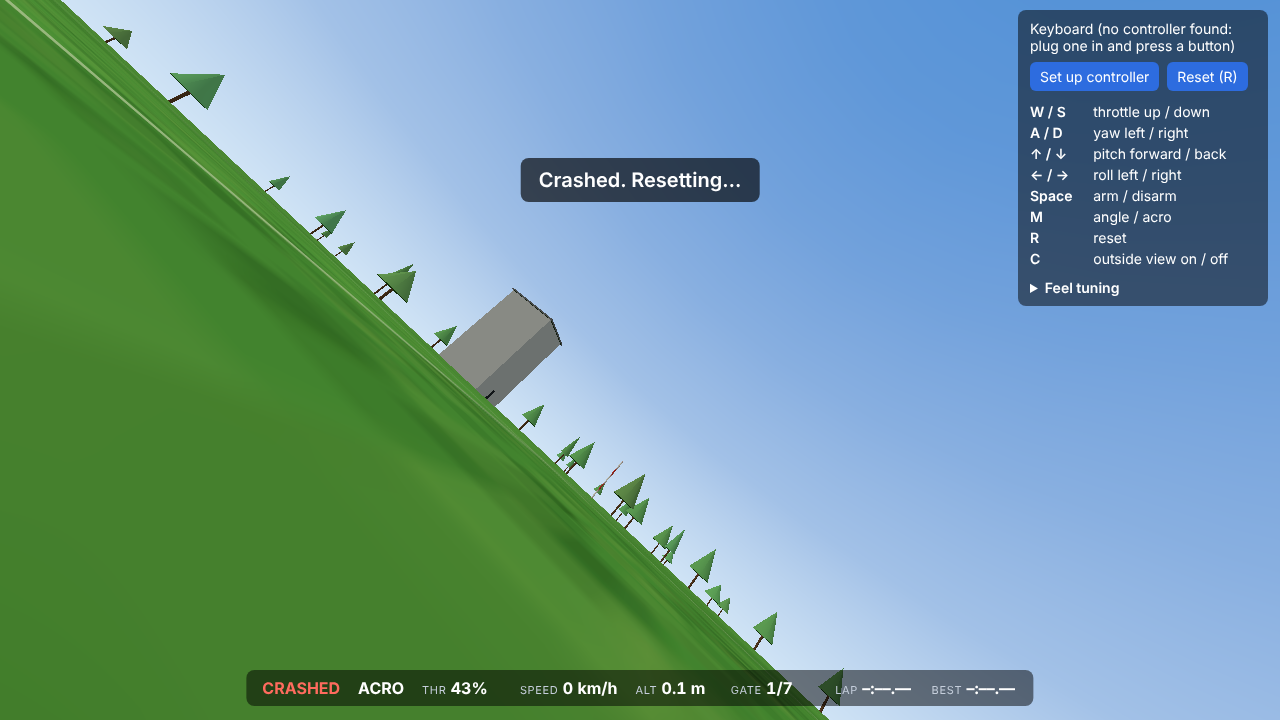
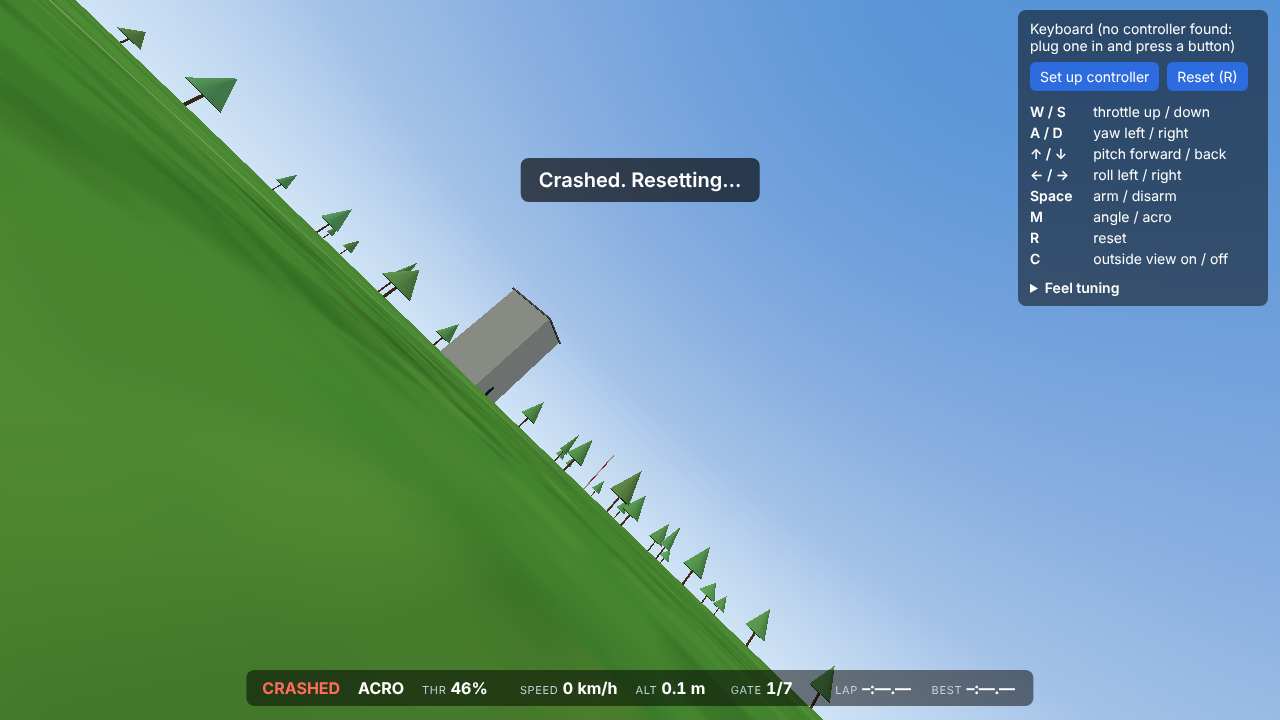
Real-data pass: thrust exponent 1.35 from two 2207 6S tables (hover 15 %), sources added, log replay not possible from the sandbox (documented)

diff --git a/src/params.js b/src/params.js
@@ -14,7 +14,7 @@ export function defaultQuad() {
     yawTorquePerThrust: 0.0122, // m, derived from [7]
     dragLinear: 0.3,            // N per m/s, cited [7]
     dragQuadratic: 0.006,       // N per (m/s)^2, uncited
-    thrustExponent: 1.25,       // static thrust = max * command^1.25, fitted to a 2207 6S bench thrust table (docs/feel.md, note 2)
+    thrustExponent: 1.35,       // static thrust = max * command^1.35: middle of two 2207 6S bench tables, 1.24 and 1.45 (docs/feel.md, note 2)
     pitchSpeed: 65,             // m/s at full throttle, tuned for ~150 km/h level top speed [8]
     crashSpeed: 6,              // m/s impact speed that counts as a crash (assumption)
     groundHeight: 0.05,         // m, height of the centre of mass when sitting on the ground

diff --git a/docs/feel.md b/docs/feel.md
@@ -2,7 +2,7 @@
 
 Mike: "the feel needs to be perfect." This page is the scoreboard. Every sim number below is **measured** by step inputs into the real sim code (`node test/feel.mjs`, and the same measurement inside Chrome in the M5 block of `test/flight.mjs`, plots in `proof/M5/32-m5-feel-step-responses.png`). Re-run after every tuning change and update the tables.
 
-Status on 2026-11-16 (third measurement): rate loop, angle mode and motor lag tuned; thrust curve fitted to a bench table, which moved hover from 30 % to 12.6 %; Trainer preset, Feel tuning panel and the PlayStation throttle centre added. Before tuning: roll/pitch 93 ms to 90 %, angle mode 411 ms, motor lag 30 ms.
+Status on 2026-11-16 (third measurement): rate loop, angle mode and motor lag tuned; thrust curve fitted to a bench table, which moved hover from 30 % to 15.2 %; Trainer preset, Feel tuning panel and the PlayStation throttle centre added. Before tuning: roll/pitch 93 ms to 90 %, angle mode 411 ms, motor lag 30 ms.
 
 Rule from PLAN.md (Mike, 2026-11-16): every number comes from real-life data. Rows without a real-world source are marked **UNSOURCED**.
 
@@ -13,9 +13,9 @@ Rule from PLAN.md (Mike, 2026-11-16): every number comes from real-life data. Ro
 | Rate loop, full-stick step: time to 90 % of the commanded rate | Under 80 ms; above that a freestyle tune counts as "sluggish". Aggressive tunes: under 50 ms | third-party tuner thresholds [F1] (no primary source found for a millisecond figure) | roll/pitch 46 / 44 ms, yaw 166 ms | ok for roll and pitch. Yaw is limited by motor torque, not by the gain (unchanged from kp 25 to 160): **check yaw authority against a real quad** |
 | Rate loop overshoot | "A tiny bit of overshoot is acceptable" [F2]; about 10 % ideal, 25 % max [F1] | [F1][F2] | 5 to 6 % roll/pitch (8 % on a 30 % stick step), 1 % yaw | ok |
 | Time to stop a roll after letting go | Same order as the rise time | follows from [F1] | 50 ms roll/pitch, 183 ms yaw | ok for roll and pitch |
-| Hover throttle | "A powerful 5-inch freestyle rig hovers at roughly 15-20 % throttle" [F3]; "hovering around 20% to 30% throttle" for a typical FPV drone [F18] | [F3][F18] | 12.6 % (freestyle preset), 18.0 % (Trainer preset) | freestyle is just under the cited range: it follows from the bench thrust curve and thrust-to-weight 9 (note 2). A lower thrust-to-weight (the measured 7.5 of [F4]) would give 15 % |
-| Thrust against throttle command | 2207 1750 KV on 6S, 5143 prop: 224 / 566 / 850 / 1286 / 1677 g at 20 / 40 / 60 / 80 / 100 % [F5]. 2306 2550 KV at 16 V, HQ 5x4x3: 149 / 449 / 816 / 1237 g at 25 / 50 / 75 / 100 % [F19] | [F5][F19] | thrust = max x command^1.25 | ok for the 2207 6S table (best-fit exponent 1.24; 1950 KV rows give 1.24 too). The 2306 table fits 1.47. PLAN rule: use the source that measured the exact kind of quad. **The [F5] part-throttle rows were read through a page summary, not seen verbatim: open the page and check them** |
-| Idle thrust | 40 g of 1237 g = 3.2 % of max at idle [F19] | [F19] | 2.7 % (5.5 % command) | ok. Idle command 5.5 % is Betaflight's default `motorIdle = 550` [F25] |
+| Hover throttle | "A powerful 5-inch freestyle rig hovers at roughly 15-20 % throttle" [F3]; "hovering around 20% to 30% throttle" for a typical FPV drone [F18] | [F3][F18] | 15.2 % (freestyle preset), 18.0 % (Trainer preset) | ok: inside the cited 15 to 20 %. It follows from the bench thrust curve and thrust-to-weight 9 (note 2) |
+| Thrust against throttle command | 2207 1750 KV on 6S, 5143 prop: 224 / 566 / 850 / 1286 / 1677 g at 20 / 40 / 60 / 80 / 100 % [F5]. 2306 2550 KV at 16 V, HQ 5x4x3: 149 / 449 / 816 / 1237 g at 25 / 50 / 75 / 100 % [F19] | [F5][F19] | thrust = max x command^1.35 | ok: two 2207 tables at 6S voltage disagree (best-fit exponent 1.24 for [F5], 1.45 for [F26]: 192 / 554 / 1034 / 1531 g at 25 / 50 / 75 / 100 % with an HQ 5x4.3x3, about 24 V), so the middle is used, as PLAN says. The 2306 table [F19] fits 1.47. The [F5] part-throttle rows were read through a page summary, not seen verbatim; [F26] was read directly |
+| Idle thrust | 40 g of 1237 g = 3.2 % of max at idle [F19] | [F19] | 2.0 % (5.5 % command) | ok. Idle command 5.5 % is Betaflight's default `motorIdle = 550` [F25] |
 | Thrust-to-weight | 7.5 measured on a load cell for an 870 g 5-inch race quad [F4]. Bench thrust per motor 1.6 to 1.9 kg for a 2207 on 6S [F5][F6], which would give 10 to 11 at 625 to 670 g but overstates installed thrust | [F4][F5][F6] | 9 | ok, inside the range |
 | All-up weight | 625 to 670 g with a 6S 1300 mAh pack, 750 to 800 g with an action camera | [F7] | 680 g | ok |
 | Motor + prop time constant | 33 ms (5-inch three-blade props) | [F8] | 33 ms set; thrust reaches 63 % in 35 ms | ok |
@@ -29,45 +29,45 @@ Rule from PLAN.md (Mike, 2026-11-16): every number comes from real-life data. Ro
 | Camera uptilt | Beginners 10 to 15 deg; freestyle 20 to 35 deg | [F14] | 25 deg | **consider 15 deg as the beginner default** (M6 has a setting) |
 | Camera field of view | DJI O3: 155 deg (lens figure) | [F15] | 115 deg horizontal | open: the lens figure is probably diagonal; not comparable yet |
 | Throttle mid / expo | Betaflight default mid 0.50, expo 0. Guides: mid at or just above hover, expo 0.3 to 0.65 | [F16][F3][F17] | PlayStation stick: centre = hover throttle of the chosen preset, expo 0, both adjustable. Radios: linear | ok. Mike's fixed decision: centred stick = about hover |
-| Beginner power limit (Trainer preset) | Betaflight throttle limit, type SCALE, "especially useful for FPV beginners", example 80 % [F18]; beginner table for 6S 5-inch: throttle limit 70 %, motor output limit 67 % [F20] | [F18][F20] | throttle limit 70 %: thrust-to-weight 5.8, hover 18.0 %, punch 4.2 g, 113 km/h in angle mode | ok as a tamed 5-inch. **PLAN now asks for a Trainer modelled on a real beginner-class quad: not done** (specs collected in note 7) |
+| Beginner power limit (Trainer preset) | Betaflight throttle limit, type SCALE, "especially useful for FPV beginners", example 80 % [F18]; beginner table for 6S 5-inch: throttle limit 70 %, motor output limit 67 % [F20] | [F18][F20] | throttle limit 70 %: thrust-to-weight 5.6, hover 21.7 %, punch 4.0 g, 111 km/h in angle mode | ok as a tamed 5-inch. **PLAN now asks for a Trainer modelled on a real beginner-class quad: not done** (specs collected in note 7) |
 | Stick deadband | Betaflight default: `deadband = 0`, `yaw_deadband = 0` (radio gimbals) [F21] | [F21] | 5 % on gamepad sticks, rescaled so there is no jump; adjustable 0 to 20 % | **UNSOURCED** for PlayStation sticks: no figure found for their resting error. Mike's controller is the test: lower it until the quad drifts hands-off |
 
 ## All measurements (sim today, freestyle preset)
 
 | What | Measured |
 |---|---|
-| Hover throttle (stick) | 12.6 % |
-| Acro roll, full stick: time to 50 % / 90 % of 670 deg/s | 26 ms / 44 ms |
-| Acro roll, full stick: overshoot, rate held | 6.0 %, 670 deg/s |
+| Hover throttle (stick) | 15.2 % |
+| Acro roll, full stick: time to 50 % / 90 % of 670 deg/s | 26 ms / 45 ms |
+| Acro roll, full stick: overshoot, rate held | 5.8 %, 670 deg/s |
 | Acro roll: time to stop after letting go (below 5 %) | 48 ms |
 | Acro pitch, full stick: time to 50 % / 90 % of 670 deg/s | 25 ms / 43 ms |
-| Acro pitch, full stick: overshoot, rate held | 6.3 %, 670 deg/s |
-| Acro pitch: time to stop after letting go (below 5 %) | 46 ms |
+| Acro pitch, full stick: overshoot, rate held | 6.1 %, 670 deg/s |
+| Acro pitch: time to stop after letting go (below 5 %) | 47 ms |
 | Acro yaw, full stick: time to 50 % / 90 % of 670 deg/s | 106 ms / 166 ms |
-| Acro yaw, full stick: overshoot, rate held | 1.5 %, 670 deg/s |
+| Acro yaw, full stick: overshoot, rate held | 1.3 %, 670 deg/s |
 | Acro yaw: time to stop after letting go (below 5 %) | 183 ms |
 | Acro roll, 30 % stick: rate held, time to 90 %, overshoot | 75 deg/s, 40 ms, 7.6 % |
-| Angle mode, half roll stick: tilt held (target), time to 90 % | 29.9 deg (30), 202 ms |
+| Angle mode, half roll stick: tilt held (target), time to 90 % | 29.9 deg (30), 203 ms |
 | Angle mode: overshoot going in, swing past level coming back | 0.0 %, 0.0 deg |
 | Angle mode: time to level (within 2 deg) after letting go | 233 ms |
 | Throttle punch from hover: peak extra acceleration | 6.7 g |
-| Throttle punch: time to 63 % / 90 % of that (motor lag) | 29 ms / 57 ms |
+| Throttle punch: time to 63 % / 90 % of that (motor lag) | 30 ms / 58 ms |
 | Throttle punch: climb speed after 1 s | 119 km/h |
-| Throttle chop from hover: sink rate and drop after 1 s (free fall: 9.8 m/s, 4.9 m) | 5.5 m/s, 3.0 m |
-| Coasting from 22 km/h after centring the sticks (angle mode): half speed after, below 1 m/s after, distance | 1.6 s, 4.1 s, 12 m |
+| Throttle chop from hover: sink rate and drop after 1 s (free fall: 9.8 m/s, 4.9 m) | 6.0 m/s, 3.2 m |
+| Coasting from 23 km/h after centring the sticks (angle mode): half speed after, below 1 m/s after, distance | 1.6 s, 4.1 s, 12 m |
 | Top speed in angle mode (60 deg tilt limit, full throttle) | 145 km/h |
 | Falling with motors off: terminal speed | 60 km/h |
 
-Trainer preset (throttle limit 70 %): hover 18.0 %, punch 4.2 g, climb after 1 s 82 km/h, 113 km/h top speed in angle mode. Rotation numbers are the same as above.
+Trainer preset (throttle limit 70 %): hover 21.7 %, punch 4.0 g, climb after 1 s 80 km/h, 111 km/h top speed in angle mode. Rotation numbers are the same as above.
 
 ## Notes for tuning (next steps of M5)
 
 1. **Done: rate loop.** `kp` 25 to 120, `kd` 0.3 to 1.5 in `defaultFc()` (`src/params.js`), picked from a scan: 45 ms to 90 % with about 5 % overshoot. Higher gains only add overshoot. Yaw did not change with gain (about 165 ms): it is limited by how much reaction torque the motors have (`yawTorquePerThrust`), which is realistic in kind; whether the amount is right is unsourced.
-2. **Done: hover throttle.** Before: stick linear in motor speed and thrust with speed squared gave 30 %. Betaflight sends the stick linearly to the ESC; bench tables show static thrust rising more slowly than the square of the command. Fit of thrust/max = command^e to the 2207 6S table [F5]: e = 1.25, 1.18, 1.33, 1.19 at 20, 40, 60, 80 % (least squares 1.24). The 2306 table [F19] gives 1.53, 1.46, 1.45 (4S-class voltage, different ESC). Used: 1.25 (`thrustExponent` in `src/params.js`). Hover = (1 / thrust-to-weight)^(1/1.25) = 17 % command = 12.6 % stick above the 5.5 % idle. To do: verify the [F5] rows by eye; check one more 6S 2207 table.
+2. **Done: hover throttle.** Before: stick linear in motor speed and thrust with speed squared gave 30 %. Betaflight sends the stick linearly to the ESC; bench tables show static thrust rising more slowly than the square of the command. Fit of thrust/max = command^e, two 2207 motors at 6S voltage: T-HOBBY P2207 1750 KV [F5] gives e = 1.25, 1.18, 1.33, 1.19 at 20, 40, 60, 80 % (mean 1.24); DYS Storm 2207 1750 KV [F26] gives 1.50, 1.47, 1.36 at 25, 50, 75 % with an HQ 5x4.3x3 and 1.49, 1.43, 1.25 with a Gemfan 5149 (mean 1.45). The two differ (different ESCs and throttle calibration), so the middle is used: **1.35** (`thrustExponent` in `src/params.js`). Hover = (1 / 9)^(1/1.35) = 20 % command = 15 % stick above the 5.5 % idle. A 2306 at 16 V [F19] fits 1.47.
 3. **Done: angle mode.** `angleGain` 5 to 10: lean in 202 ms, no overshoot, no swing-back (gain 20 starts to overshoot). No feedforward added; add it only if Mike finds it soft.
 4. **Done: Feel tuning panel** (`src/tuning.js`, panel in `index.html`): quad preset (Trainer / Freestyle), max rate, centre sensitivity, expo, responsiveness (rate-loop gains), floatiness (air drag), throttle at stick centre, throttle expo, stick deadzone, and Reset to default. Saved in the browser. Defaults are the sourced values in this page.
 5. **Done: input path review.** `InputManager.update()` reads the gamepad once per rendered frame; the only shaping is the deadzone, the throttle-centre curve (spring sticks only) and Betaflight Actual rates. No smoothing or filtering anywhere. Physics runs a fixed 1 kHz whatever the frame rate (`simAdvance`). The keyboard is the exception: keys ramp a virtual stick at 5 per second, because a key has no travel.
-6. **UNSOURCED** today: rate-loop rise time from a primary source (only third-party thresholds [F1]); the angle-mode 200 ms lean (a judgement); yaw authority; terminal fall speed; speed at a given tilt; gamepad deadzone; quadratic drag; crash speed 6 m/s. Best fix for the first four: replay a real blackbox log through the sim (PLAN: validation against a real flight), not started.
+6. **UNSOURCED** today: rate-loop rise time from a primary source (only third-party thresholds [F1]); the angle-mode 200 ms lean (a judgement); yaw authority; terminal fall speed; speed at a given tilt; gamepad deadzone; quadratic drag; crash speed 6 m/s. Best fix for the first four: replay a real blackbox log through the sim (PLAN: validation against a real flight). **Tried on 2026-11-16 and not possible from the relay sandbox**: its web tool returns page text only and does not keep binary files, so no log could be brought in (two public logs were reachable: `good_tune.BBL` and `stock_tune.BFL` in github.com/Plasmatree/PID-Analyzer), and the one dataset that matches this quad (TII race dataset, [F4]) ships only as 12 GB archives. If Mike drops one blackbox log (.bbl) of a 5-inch into the repo, a leg can replay it. A real pilot's settings on that quad are in [F27]: 533 deg/s full-stick rate, close to the 670 default here.
 7. Specs collected for a real beginner quad (for the Trainer rework). BetaFPV Cetus X: 55 g without battery, 81 g with two 1S 450 mAh, 95 mm wheelbase, 1103 11000 KV motors, Gemfan 2020 four-blade props, about 5 min flight [F22][F23]. BetaFPV Cetus Pro: 33.19 g without battery, 1102 18000 KV, 40 mm three-blade props, 1S 450 mAh, modes N/S/M with speeds slow/mid/fast [F24]. None of these pages gives thrust, top speed, tilt limits or rates: those still need a source (motor thrust tables for 1103 / 1102, or a flight log).
 
 ## Sources
@@ -97,6 +97,8 @@ Trainer preset (throttle limit 70 %): hover 18.0 %, punch 4.2 g, climb after 1 s
 - F23. Oscar Liang, BetaFPV Cetus X review: https://oscarliang.com/betafpv-cetus-x/
 - F24. BetaFPV Cetus Pro FPV kit: https://betafpv.com/products/cetus-pro-fpv-kit
 - F25. Betaflight source, `src/main/pg/motor.c` (`motorConfig->motorIdle = 550`, read as 5.5 %): https://raw.githubusercontent.com/betaflight/betaflight/master/src/main/pg/motor.c
+- F26. MiniQuadTestBench, DYS Storm 2207 1750 KV (thrust at idle / 25 / 50 / 75 / 100 % per prop, logged at about 24 V): https://www.miniquadtestbench.com/assets/components/motordata/motorinfo.php?uid=244
+- F27. Betaflight settings of the real 870 g race quad of [F4] (Betaflight 4.3.1, rates type BETAFLIGHT, rc_rate 80, srate 70: by Betaflight's formula 200 x 0.8 / (1 - 0.7) = 533 deg/s at full stick; PIDs roll 63/67/46, pitch 75/81/47): https://raw.githubusercontent.com/tii-racing/drone-racing-dataset/main/quadrotor/BTFL_cli_backup.txt
 
 F5 note: the page is headed "T-HOBBY P2207 V3"; its part-throttle rows (20 to 100 % in steps of 20, at 25.2 to 24.8 V) came through a page summary.
 

diff --git a/PROGRESS.md b/PROGRESS.md
@@ -51,8 +51,8 @@ Live link: https://mickethegeek.github.io/fpv-sim/ (not checkable from the cloud
 
 - Feel tuning (M5): rate PID `kp` 120, `kd` 1.5 and angle gain 10, chosen by scanning against the targets in `docs/feel.md` (45 ms to 90 % rate, 200 ms lean, no wobble). The 200 ms lean target is a judgement, not sourced. Change in `defaultFc()`.
 - Motor lag 33 ms, mass, arm, thrust-to-weight, angle limit, linear drag and top speed now all have sources (listed in `docs/feel.md`).
-- Hover throttle is now 12.6 % (freestyle): thrust = max x command^1.25, fitted to a 2207 6S bench table (the exact kind of quad, so PLAN's rule picks it over the 1.47 of a 2306 table). The direction note expected 20 to 25 %; the data gave less. The table rows came through a page summary and still need checking by eye. Change `thrustExponent` in `src/params.js`.
-- Trainer preset = the same 5-inch with Betaflight's throttle limit at 70 % (a sourced beginner setting): thrust-to-weight 5.8, hover 18 %. Rates and tilt limit are left at Betaflight defaults because no sourced beginner values were found; the direction note's "hover about 40 %" would need a throttle limit near 35 %, which no source recommends. PLAN (10:53) now asks for a real beginner-class quad instead: open.
+- Hover throttle is now 15.2 % (freestyle): thrust = max x command^1.35, the middle of two 2207 6S bench tables that disagree (1.24 and 1.45; PLAN: use the middle). The direction note expected 20 to 25 %; the data gave 15 %, inside the 15 to 20 % of the guides. Change `thrustExponent` in `src/params.js`.
+- Trainer preset = the same 5-inch with Betaflight's throttle limit at 70 % (a sourced beginner setting): thrust-to-weight 5.6, hover 22 %. Rates and tilt limit are left at Betaflight defaults because no sourced beginner values were found; the direction note's "hover about 40 %" would need a throttle limit near 35 %, which no source recommends. PLAN (10:53) now asks for a real beginner-class quad instead: open.
 - **Trainer is the preset on a first visit** ("beginners start there"); the choice is saved in the browser. `?preset=freestyle` in the link forces the other one. Change `DEFAULT_PRESET` in `src/params.js`.
 - PlayStation throttle: stick centre = the preset's hover throttle, bottom = 0, top = full, expo 0 (Betaflight default). Because the resting stick is above the 10 % arming limit, the pilot pulls the stick down to arm (hint on screen).
 - Motor idle 5.5 % (Betaflight default). Gamepad deadzone stays 5 %: UNSOURCED, slider in the panel.
@@ -96,3 +96,4 @@ Live link: https://mickethegeek.github.io/fpv-sim/ (not checkable from the cloud
 - 2026-11-16 10:52 UTC · M5 tuning: rate loop 93 → 45 ms to 90 % (5 % overshoot), angle mode lean 411 → 202 ms with no overshoot, motor lag set to the cited 33 ms; 38 unit tests, 68 browser checks, plots in proof/M5/ · next: hover throttle + PS throttle mid, then the Feel tuning panel
 - 2026-11-16 11:02 UTC · M5: thrust = command^1.25 fitted to a 2207 6S bench table (hover 30 → 13 %), throttle limit + Trainer / Freestyle presets, Feel tuning panel (8 sliders, Reset to default, saved), PlayStation stick centre = hover; 42 unit tests · next: docs, full browser run
 - 2026-11-16 11:12 UTC · M5 ticked: docs/feel.md and docs/physics.md updated with the new sources and UNSOURCED marks, idle set to Betaflight's 5.5 % (hover 12.6 %), full browser run 72 checks, proof/M5/33 to 36; real flight-log sources scouted · next: real-data pass (log replay, Trainer on a real quad), then M6
+- 2026-11-16 11:17 UTC · real-data pass: second 2207 6S thrust table read directly (exponent 1.45 against 1.24), middle 1.35 used, hover now 15.2 % (Trainer 21.7 %); real race-quad Betaflight settings found; flight-log replay tried and not possible from the sandbox (web tool keeps no binary files), written up in docs/feel.md note 6 · next: M6

diff --git a/docs/physics.md b/docs/physics.md
@@ -38,7 +38,7 @@ Not copied from Betaflight: the PID loop itself. Betaflight's default gains (rol
 | Thrust-to-weight | 9 | cited (range) | 7.5 measured in flight trim on an 870 g race quad, 10 to 11 from bench thrust (`docs/feel.md` F4 to F6); 9 is the middle. Gives 15 N static thrust per motor. |
 | Motor arm length | 0.11 m | cited | 107.5 to 112.5 mm (`docs/feel.md` F4, F9) |
 | Motor time constant | 33 ms | cited | NeuroBEM paper (`docs/feel.md` F8) |
-| Thrust against command | max x command^1.25 | cited (fit) | 2207 6S bench table (`docs/feel.md` F5, note 2); rows to be checked by eye |
+| Thrust against command | max x command^1.35 | cited (fit) | middle of two 2207 6S bench tables, 1.24 and 1.45 (`docs/feel.md` F5, F26, note 2) |
 | Idle command | 5.5 % | cited | Betaflight default `motorIdle = 550` (`docs/feel.md` F25) |
 | Quadratic body drag | 0.006 N per (m/s)² | **UNSOURCED** | placeholder, equal to a drag area of about 0.01 m² |
 | Prop pitch speed at full throttle | tuned | tuned | Chosen so level top speed lands on the cited 150 km/h. See below. |
@@ -46,7 +46,7 @@ Not copied from Betaflight: the PID loop itself. Betaflight's default gains (rol
 ## Model choices
 
 - **Thrust falls with airspeed.** A fixed-pitch prop makes less thrust as air flows faster through it. Model: `T = Tmax * n * (n - v_axial / v_pitch)`, clamped at 0, where `n` is prop speed 0..1 and `v_axial` is airspeed along the thrust axis. At rest this is `Tmax * n²`. This, not body drag, is what limits top speed, so the quad still coasts when you cut throttle. `v_pitch` is the one tuned number.
-- **Throttle stick is linear in the ESC command** (as in Betaflight). Static thrust = `Tmax * command^1.25`, fitted to a bench table, so prop speed `n = command^0.625` and hover sits at 12.6 % stick (was 30 % with thrust = command²).
+- **Throttle stick is linear in the ESC command** (as in Betaflight). Static thrust = `Tmax * command^1.35`, fitted to bench tables, so prop speed `n = command^0.675` and hover sits at 15 % stick (was 30 % with thrust = command²).
 - **Motors**: first-order lag (33 ms) on the command.
 - **Integration**: 1 kHz fixed step, semi-implicit Euler, quaternion renormalised each step.
 
